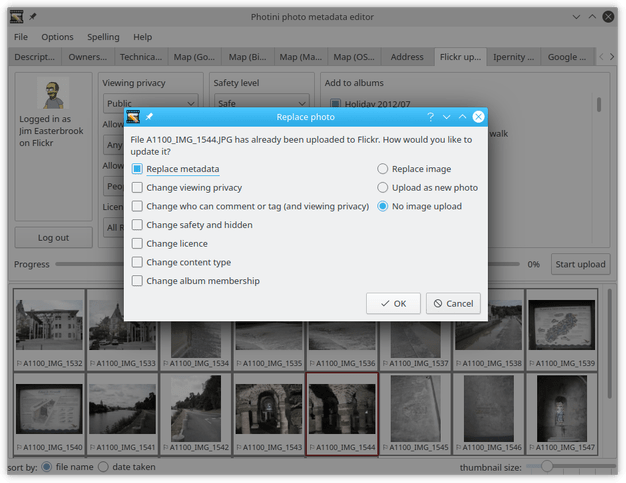
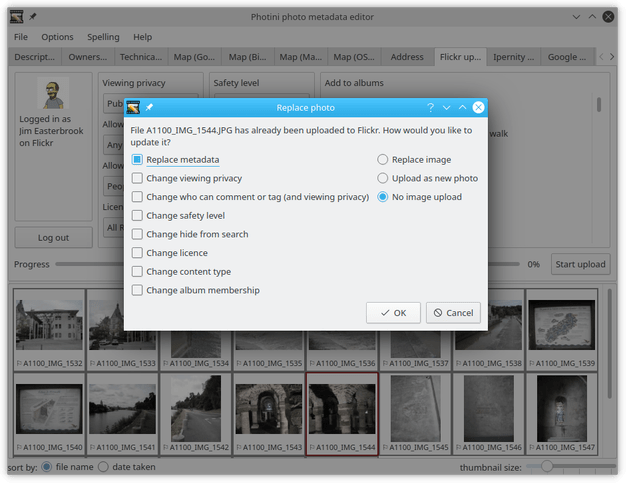
Separate Flickr "safety" and "hidden" settings

Changed region(s): [[0.1821, 0.1863, 0.7891, 0.6211], [0.1821, 0.6211, 0.7891, 0.7143]]

diff --git a/src/photini/flickr.py b/src/photini/flickr.py
@@ -204,7 +204,8 @@ class FlickrSession(UploaderSession):
             if params['function'] == 'upload':
                 data = {}
                 # set some metadata with upload function
-                for key in ('privacy', 'content_type', 'safety_level', 'meta'):
+                for key in ('privacy', 'content_type', 'hidden',
+                            'safety_level', 'meta'):
                     data.update(params[key])
                     del(params[key])
             else:
@@ -252,6 +253,13 @@ class FlickrSession(UploaderSession):
         elif keyword not in image.metadata.keywords:
             image.metadata.keywords = list(image.metadata.keywords) + [keyword]
         # set metadata after uploading image
+        if 'hidden' in params:
+            # flickr.photos.setSafetyLevel has different 'hidden' values
+            # than upload function
+            params['hidden']['hidden'] = str(int(params['hidden']['hidden']) - 1)
+            if 'safety_level' in params:
+                params['safety_level'].update(params['hidden'])
+                del params['hidden']
         if 'privacy' in params and 'permissions' in params:
             del params['privacy']
         metadata_set_func = {
@@ -259,6 +267,7 @@ class FlickrSession(UploaderSession):
             'permissions':  'flickr.photos.setPerms',
             'content_type': 'flickr.photos.setContentType',
             'safety_level': 'flickr.photos.setSafetyLevel',
+            'hidden':       'flickr.photos.setSafetyLevel',
             'licence':      'flickr.photos.licenses.setLicense',
             'meta':         'flickr.photos.setMeta',
             'keywords':     'flickr.photos.setTags',
@@ -267,11 +276,6 @@ class FlickrSession(UploaderSession):
             }
         for key in params:
             if params[key] and key in metadata_set_func:
-                if key == 'safety_level':
-                    # flickr.photos.setSafetyLevel has different
-                    # 'hidden' values than upload function
-                    params[key]['hidden'] = str(
-                        int(params[key]['hidden']) - 1)
                 rsp = self.api_call(metadata_set_func[key], post=True,
                                     photo_id=photo_id, **params[key])
                 if not rsp:
@@ -438,6 +442,8 @@ class TabWidget(PhotiniUploader):
             'permissions': permissions,
             'safety_level': {
                 'safety_level': self.widget['safety_level'].value(),
+                },
+            'hidden': {
                 'hidden'      : self.widget['hidden'].value(),
                 },
             'licence': {
@@ -562,7 +568,9 @@ class TabWidget(PhotiniUploader):
              translate('FlickrTab', 'Change who can comment or tag'
                        ' (and viewing privacy)')),
             ('safety_level',
-             translate('FlickrTab', 'Change safety and hidden')),
+             translate('FlickrTab', 'Change safety level')),
+            ('hidden',
+             translate('FlickrTab', 'Change hide from search')),
             ('licence', translate('FlickrTab', 'Change licence')),
             ('content_type', translate('FlickrTab', 'Change content type')),
             ('albums', translate('FlickrTab', 'Change album membership'))))

diff --git a/src/photini/__init__.py b/src/photini/__init__.py
@@ -1,4 +1,4 @@
 """Full documentation is at https://photini.readthedocs.io/"""
 
 __version__ = '2022.2.0'
-build = '1993 (d781ef2)'
+build = '1994 (4891dd3)'
